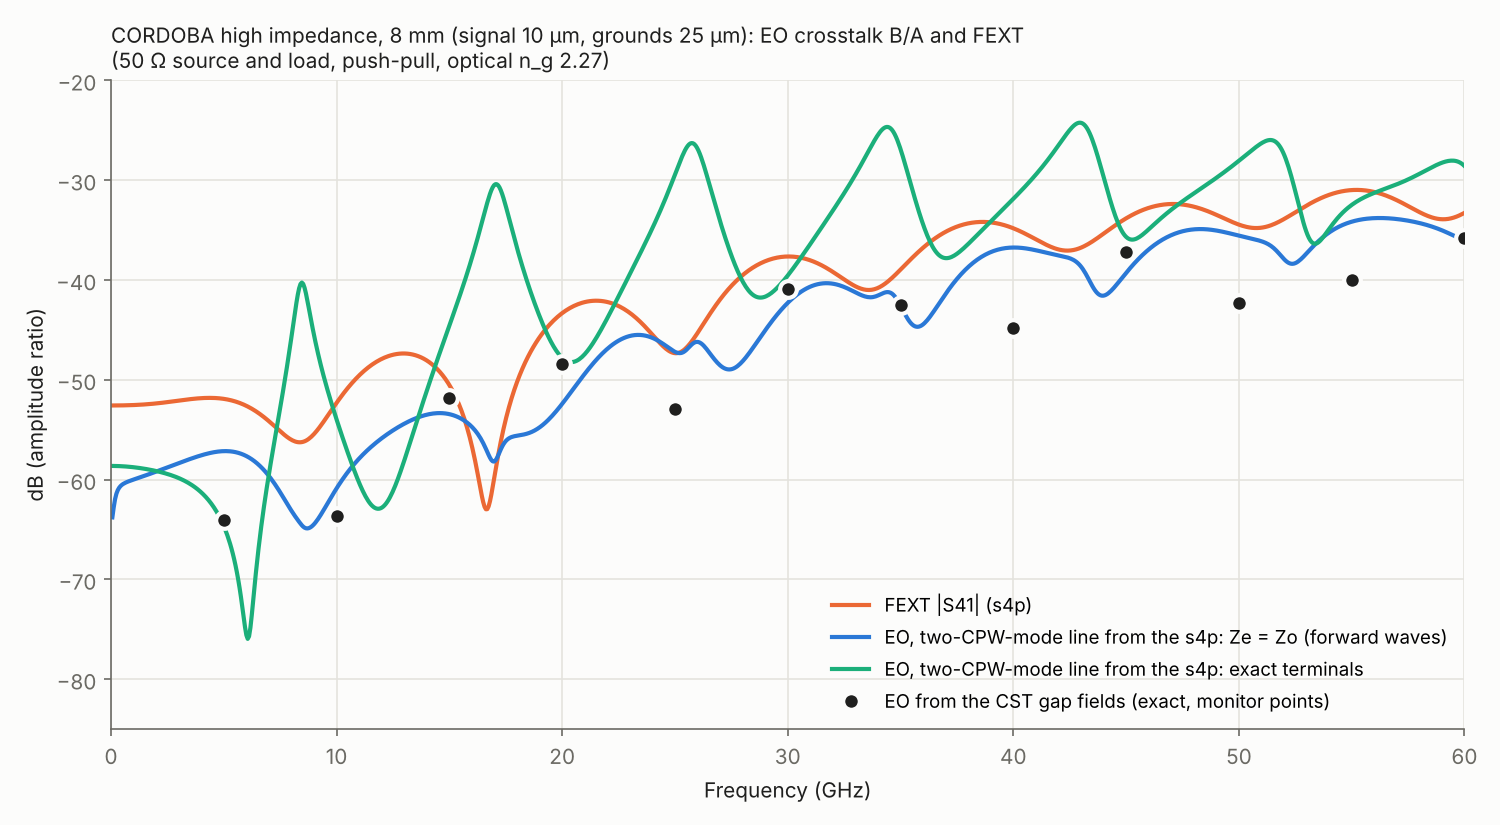
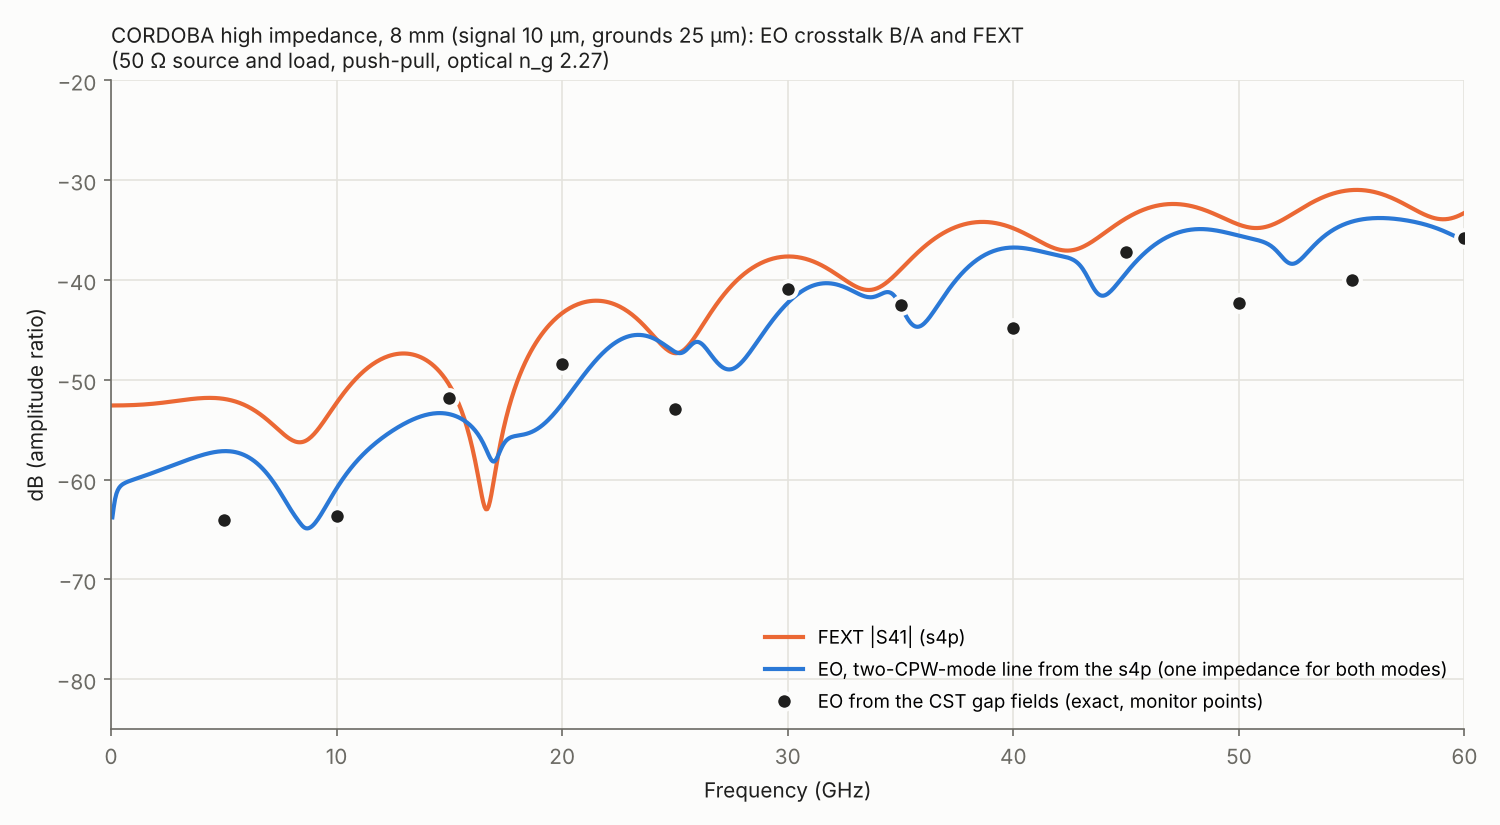
CORDOBA HZ EO plot: keep only the common-impedance two-mode line
Claude-Session: https://claude.ai/code/session_01PF7RKNjFsSkyjm1syGCUrV

diff --git a/docs/cst/xtalk/cordoba_hz_8mm/plot_eo_models.py b/docs/cst/xtalk/cordoba_hz_8mm/plot_eo_models.py
@@ -1,7 +1,7 @@
 """CORDOBA HZ, 8 mm: FEXT |S41| (s4p), EO crosstalk B/A from the gap fields (12 monitor points, exact for
 the TD model) and EO crosstalk from the two-CPW-mode equivalent line extracted from the same s4p
-(pair-even/pair-odd lines, the GUI's "Crosstalk from s4p" model; variants "Ze = Zo (forward waves)" and
-"exact terminals"). All at 50 ohm source and load, push-pull, optical n_g 2.27."""
+(pair-even/pair-odd lines, the GUI's "Crosstalk from s4p" model, variant "Ze = Zo": indices from the s4p,
+one common impedance; the "exact terminals" variant is not plotted, see results). All at 50 ohm source and load, push-pull, optical n_g 2.27."""
 import os, sys
 sys.path.insert(0, os.path.abspath(os.path.join(os.path.dirname(__file__), "../../../..")))
 import numpy as np, skrf, matplotlib
@@ -26,8 +26,7 @@ xeq = dev["eq"]["resp"]["H_B"] / dev["eq"]["resp"]["H_A"]
 xfu = dev["full"]["resp"]["H_B"] / dev["full"]["resp"]["H_A"]
 fig, a = plt.subplots(figsize=(10, 5.5))
 a.plot(net.f / 1e9, d(net.s[:, 3, 0]), color=C_FEXT, lw=2, label="FEXT |S41| (s4p)")
-a.plot(fm, d(xeq), color=C_EQ, lw=2, label="EO, two-CPW-mode line from the s4p: Ze = Zo (forward waves)")
-a.plot(fm, d(xfu), color=C_FULL, lw=2, label="EO, two-CPW-mode line from the s4p: exact terminals")
+a.plot(fm, d(xeq), color=C_EQ, lw=2, label="EO, two-CPW-mode line from the s4p (one impedance for both modes)")
 a.plot(fld["f_GHz"], d(fld["X"]), "o", color=C_FIELD, ms=8, mec=SURF, mew=2, label="EO from the CST gap fields (exact, monitor points)")
 a.set_xlim(0, 60); a.set_ylim(-85, -20)
 a.set_xlabel("Frequency (GHz)"); a.set_ylabel("dB (amplitude ratio)")
